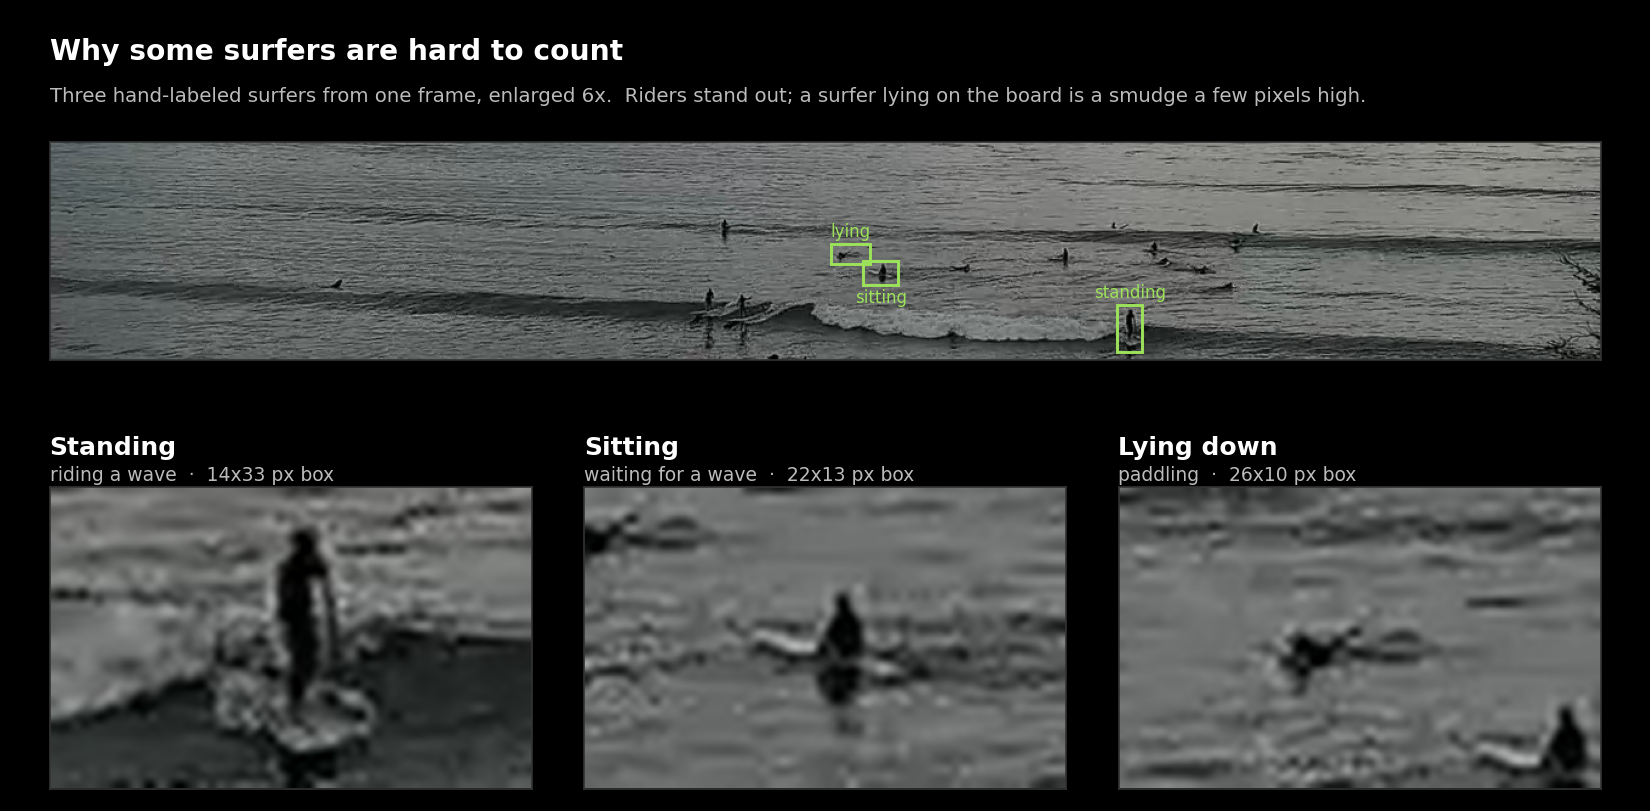
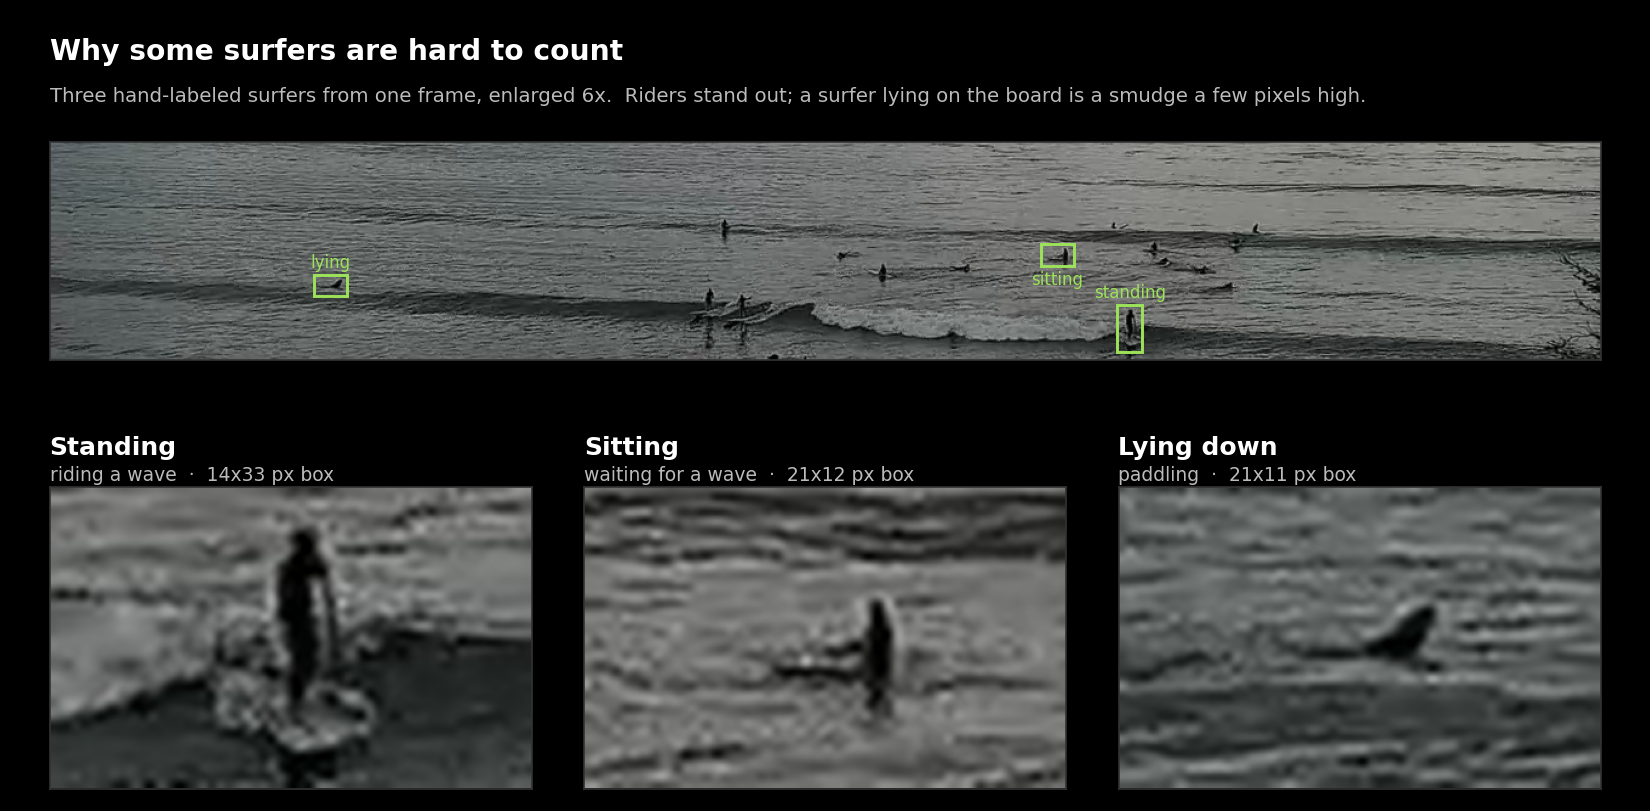
Show one surfer per pose close-up in the README poses figure
The lying-down close-up also caught a sitting surfer beside it, so the
panel read as the wrong pose. The sitting and lying-down examples are
now the largest boxes with no other labeled surfer inside their 64x40
close-up window. The standing rider is unchanged.

Claude-Session: https://claude.ai/code/session_01C2GCpQELsJRUSZjSZDcA3i

diff --git a/analysis/readme_figures/make_readme_figures.py b/analysis/readme_figures/make_readme_figures.py
@@ -381,16 +381,37 @@ def weekend_by_month(min_days=2, tide_max=3.0):
 def surfer_poses():
     j = json.load(open(CVAT / POSE_SET / "annotations" / "instances_default.json"))
     iid = next(i["id"] for i in j["images"] if i["file_name"].endswith(POSE_FRAME))
-    best = {}
-    for a in j["annotations"]:
-        p = a["attributes"].get("pose")
-        if a["image_id"] == iid and p in ("standing", "sitting", "prone"):
-            if p == "standing" and round(a["bbox"][0]) != POSE_STANDING_X:
-                continue
-            area = a["bbox"][2] * a["bbox"][3]
-            if area > best.get(p, (0, None))[0]:
-                best[p] = (area, a["bbox"])
     img = _rgb(CROPS / POSE_FRAME)
+    frame = [a for a in j["annotations"] if a["image_id"] == iid]
+
+    def window(b):
+        """The fixed 64x40 close-up window centred on a box, clamped to the frame."""
+        cx, cy = b[0] + b[2] / 2, b[1] + b[3] / 2
+        x0 = int(np.clip(cx - 32, 0, img.shape[1] - 64))
+        y0 = int(np.clip(cy - 20, 0, img.shape[0] - 40))
+        return x0, y0
+
+    def alone(a):
+        """True when no other labeled surfer reaches into a's close-up window. A
+        second surfer in the panel (the 10-22 lying-down pick had a sitter
+        beside it) makes the panel read as the wrong pose."""
+        x0, y0 = window(a["bbox"])
+        return not any(o is not a and o["bbox"][0] < x0 + 64 and o["bbox"][0] + o["bbox"][2] > x0
+                       and o["bbox"][1] < y0 + 40 and o["bbox"][1] + o["bbox"][3] > y0
+                       for o in frame)
+
+    best = {}
+    for a in frame:
+        p = a["attributes"].get("pose")
+        if p not in ("standing", "sitting", "prone"):
+            continue
+        if p == "standing" and round(a["bbox"][0]) != POSE_STANDING_X:
+            continue
+        if p != "standing" and not alone(a):
+            continue
+        area = a["bbox"][2] * a["bbox"][3]
+        if area > best.get(p, (0, None))[0]:
+            best[p] = (area, a["bbox"])
 
     # Laid out in inches rather than with a gridspec, so the strip spans exactly
     # the width of the three panels and their gaps: an equal-aspect image in a
@@ -424,9 +445,7 @@ def surfer_poses():
         top.text(x + w / 2, y + h + 6 if below else y - 6, name.split()[0].lower(),
                  color=LIME, fontsize=8, ha="center", va="top" if below else "bottom")
         # a fixed 64x40 window centred on the box, so every panel is to scale
-        cx, cy = x + w / 2, y + h / 2
-        x0 = int(np.clip(cx - 32, 0, img.shape[1] - 64))
-        y0 = int(np.clip(cy - 20, 0, img.shape[0] - 40))
+        x0, y0 = window((x, y, w, h))
         patch = cv2.resize(img[y0:y0 + 40, x0:x0 + 64], (384, 240),
                            interpolation=cv2.INTER_LANCZOS4)
         ax = fig.add_axes([(MARGIN + k * (pw + GAP)) / FW, foot / FH, pw / FW, ph / FH])
